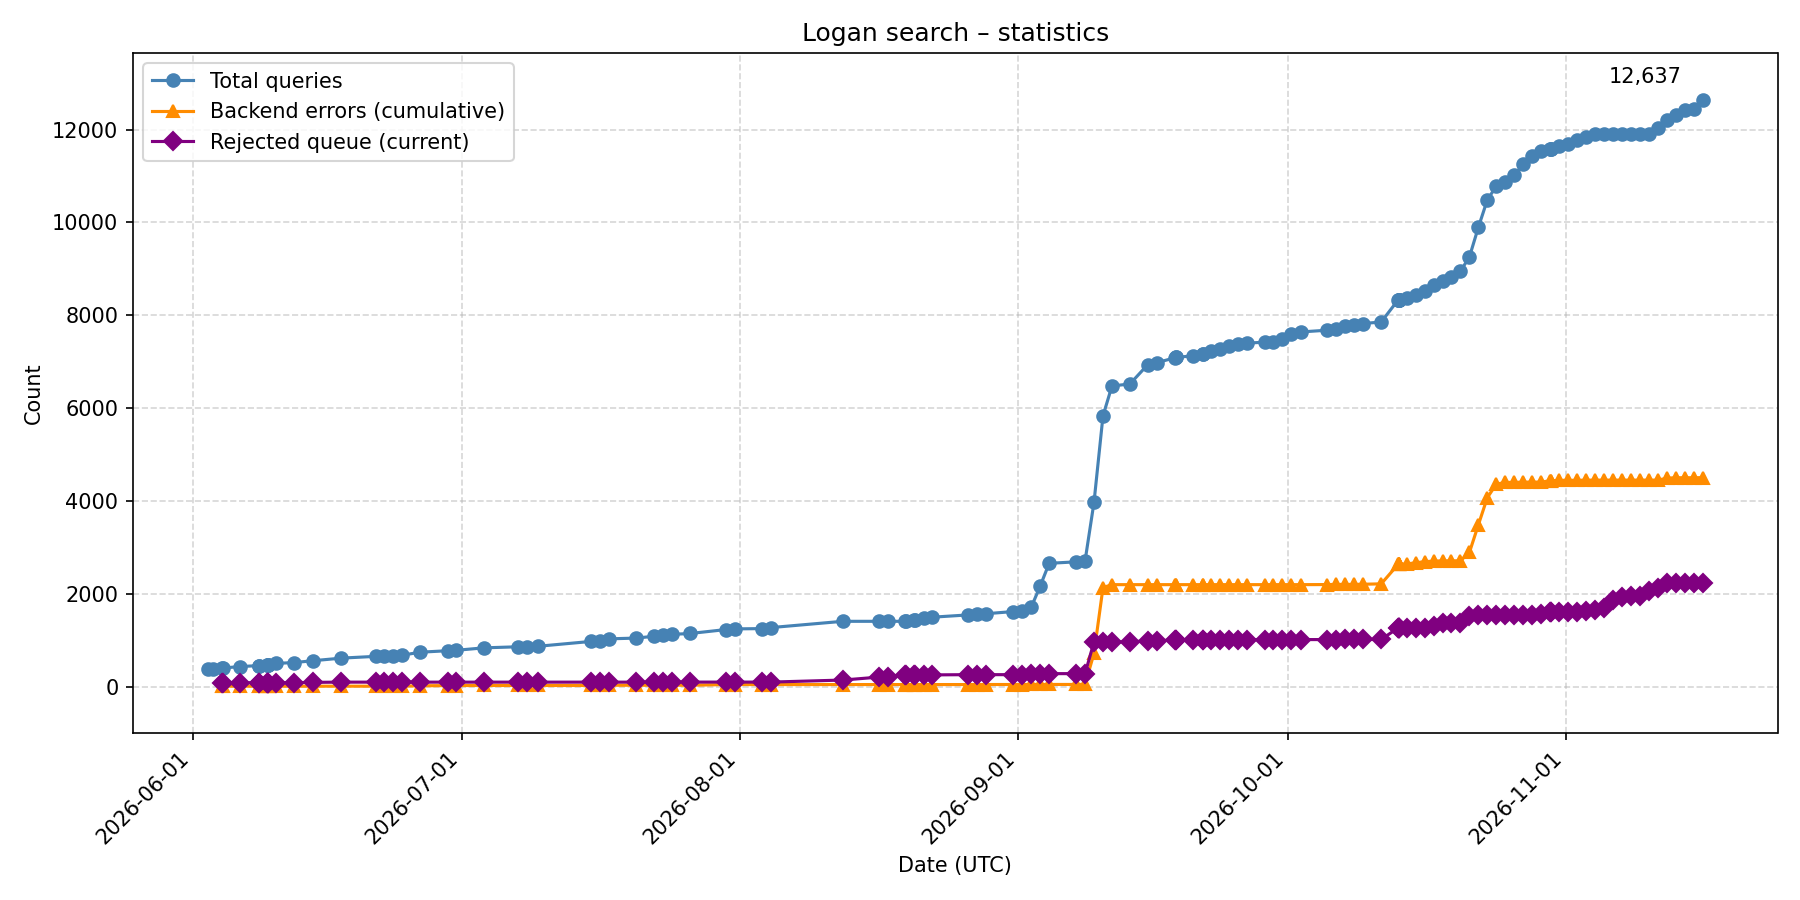
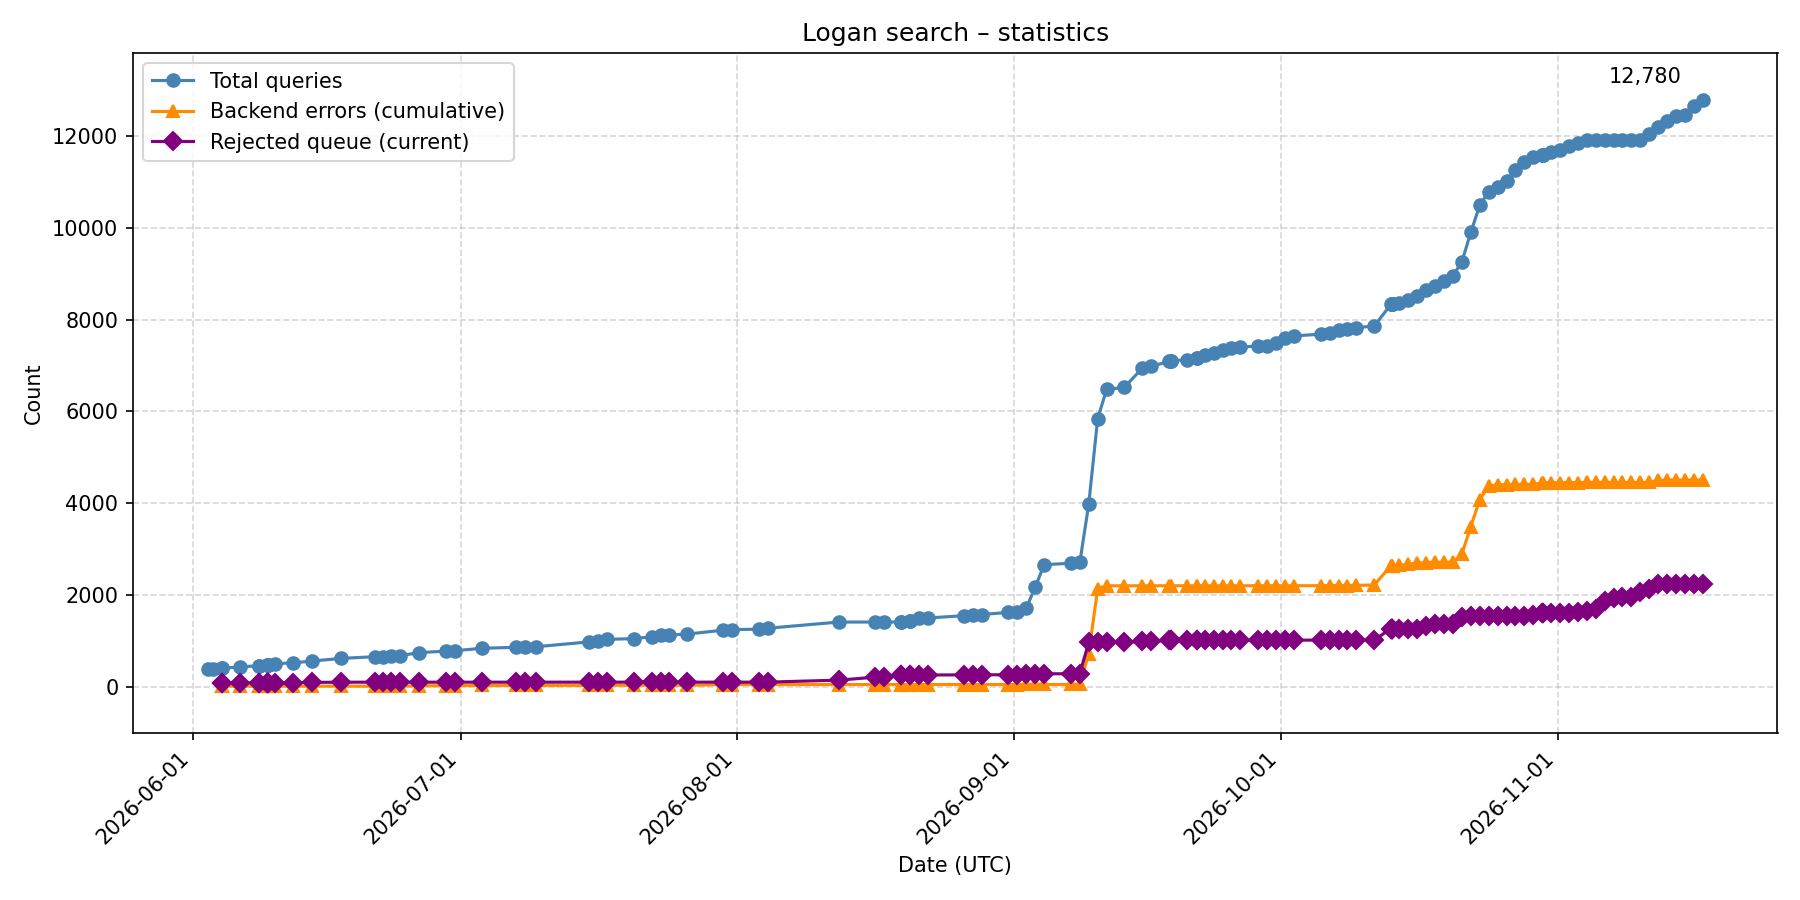
Update statistics 2026-11-17

diff --git a/README.md b/README.md
@@ -5,8 +5,8 @@ Usage statistics of [Logan Search](https://logan-search.org), updated once a day
 ## Yesterday
 
 <!-- daily-queries:start -->
-**Queries on 2026-11-15 (UTC): 81** on the backend (BRC Analytics history).
-The logan-search.org counter increased by 186 between 2026-11-15 06:00 and 2026-11-16 06:00 UTC.
+**Queries on 2026-11-16 (UTC): 148** on the backend (BRC Analytics history).
+The logan-search.org counter increased by 143 between 2026-11-16 06:00 and 2026-11-17 06:00 UTC.
 <!-- daily-queries:end -->
 
 ## Queries made on logan-search.org
